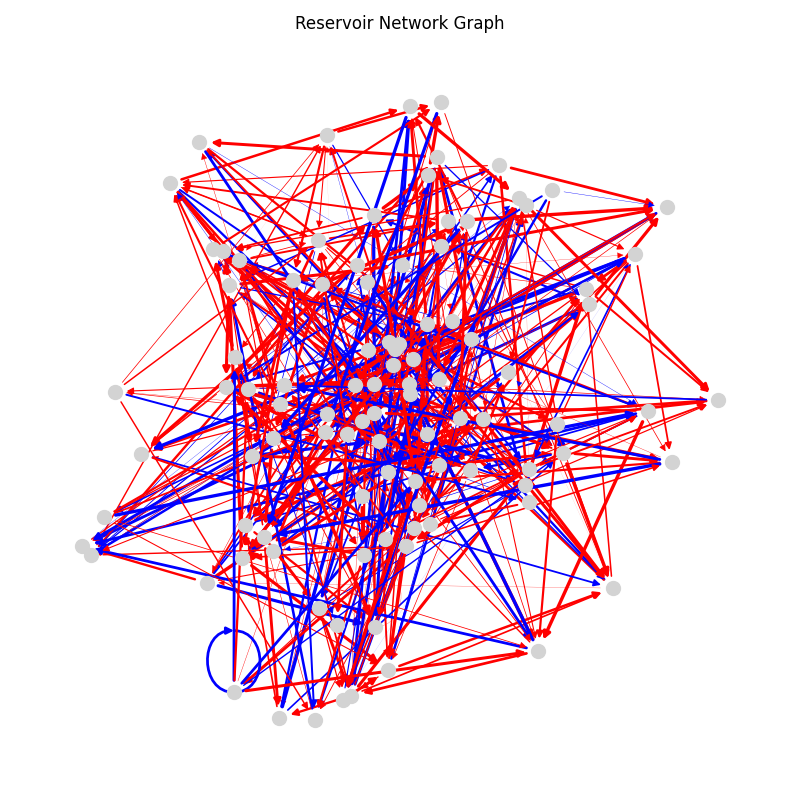
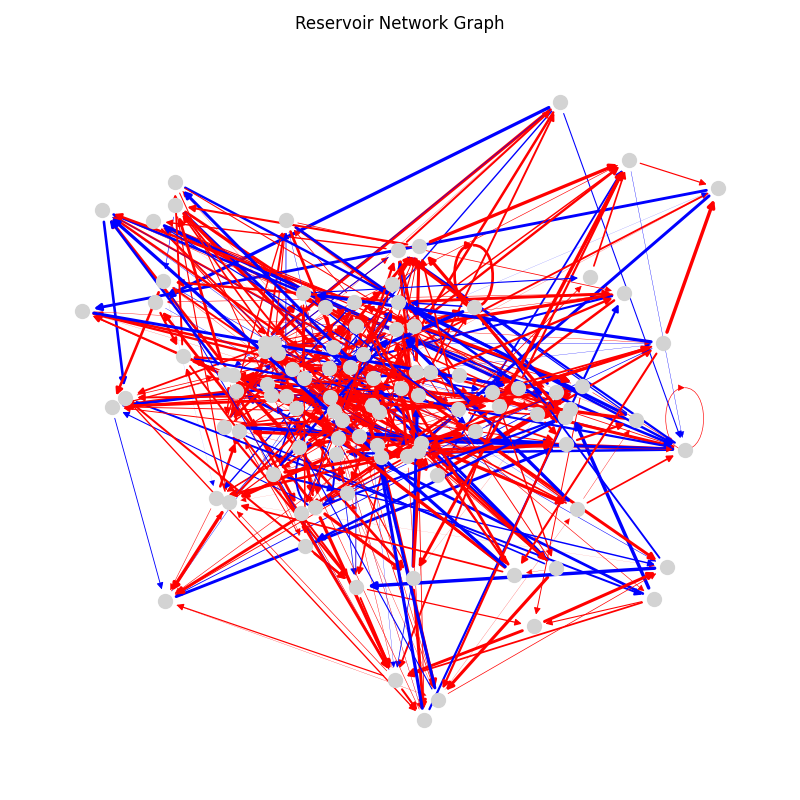
recurent networkの行列計算追加

Changed region(s): [[0.0938, 0.125, 0.9062, 0.9062], [0.8438, 0.3125, 0.875, 0.375]]

diff --git a/demo.py b/demo.py
@@ -10,14 +10,13 @@ import random
 
 if __name__ == "__main__":
 
-    #りざばーのネットワーク作る
-    #network可視化
+    #ラスタープロット
     #学習アルゴリズム追加
     #8:2で興奮と抑制混ぜる
 
     # set a PQN cell
     # you can use RSexci, RSinhi, FS, LTS, IB, EB, PB, or Class2 mode
-    N = 100
+    N = 1000
     cell0=PQNModel(mode='RSexci', N = N)
     # set a synapse
     synapses_out = DoubleExponentialSynapse(N, dt=cell0.PARAM['dt'], td=2e-2, tr=2e-3)
@@ -33,10 +32,12 @@ if __name__ == "__main__":
     spike = np.zeros(N)
     past_spike = np.zeros(N)
     resovoir_weight = np.zeros((N, N))
+    random.seed(42) # for reproducibility
     for i in range(N):
         for j in range(N):
             p = random.random()
             if p < 0.04:  # 4%の確率で結合
+
                 resovoir_weight[i][j] = 0.5*random.random()
             elif p < 0.05:
                 resovoir_weight[i][j] = -0.5*random.random()  # 1%の確率で抑制結合
@@ -52,38 +53,41 @@ if __name__ == "__main__":
             if w != 0:
                 G.add_edge(j, i, weight=w)  # j→i（pre→post）
 
-    # --- 3. ノード配置（円形 or 自動レイアウト） ---
-    pos = nx.spring_layout(G, seed=42)  # spring_layout / circular_layout など
+    # # --- 3. ノード配置（円形 or 自動レイアウト） ---
+    # pos = nx.spring_layout(G, seed=42)  # spring_layout / circular_layout など
 
-    # --- 4. エッジ属性（色と太さ） ---
-    edges = G.edges(data=True)
-    edge_colors = ['red' if d['weight'] > 0 else 'blue' for (u, v, d) in edges]
-    edge_widths = [abs(d['weight'])*5 for (u, v, d) in edges]
+    # # --- 4. エッジ属性（色と太さ） ---
+    # edges = G.edges(data=True)
+    # edge_colors = ['red' if d['weight'] > 0 else 'blue' for (u, v, d) in edges]
+    # edge_widths = [abs(d['weight'])*5 for (u, v, d) in edges]
 
-    # --- 5. 可視化 ---
-    plt.figure(num=1, figsize=(8, 8))
-    nx.draw_networkx_nodes(G, pos, node_size=100, node_color="lightgray")
-    nx.draw_networkx_edges(G, pos, edge_color=edge_colors, width=edge_widths, arrows=True, arrowstyle='-|>')
-    plt.title("Reservoir Network Graph")
-    plt.axis('off')
-    plt.tight_layout()
-    plt.savefig("network.png")
-    plt.show(block=False)
+    # # --- 5. 可視化 ---
+    # plt.figure(num=1, figsize=(8, 8))
+    # nx.draw_networkx_nodes(G, pos, node_size=100, node_color="lightgray")
+    # nx.draw_networkx_edges(G, pos, edge_color=edge_colors, width=edge_widths, arrows=True, arrowstyle='-|>')
+    # plt.title("Reservoir Network Graph")
+    # plt.axis('off')
+    # plt.tight_layout()
+    # plt.savefig("network.png")
+    # plt.show(block=False)
 
     # set step input
-    I=np.zeros(number_of_iterations)
+    I=np.zeros((number_of_iterations, N))
     I[int(number_of_iterations/4):int(number_of_iterations/4*3)] = 0.09
+    next_input = np.zeros(N)
 
     # run simulatiion
     start = time.perf_counter()
     for i in range(number_of_iterations):
-        cell0.update(I[i])
+        I[i] += next_input
+        cell0.update(I[i])  # update cell state
         v0[i] = (cell0.get_membrane_potential())
         spike = np.where(v0[i] > 4, 1, 0)
         output[i] = synapses_out(np.where(spike-past_spike > 0, 1, 0))
         # tmp = np.where(spike-past_spike > 0, 1, 0)
         # if(tmp[1] == 1):
         #     print(f"Spike at iteration {i}, time {i * cell0.PARAM['dt']:.2f} s")
+        next_input = 0.004*np.dot(resovoir_weight, output[i])  # update input for next iteration
         past_spike = spike
     #print(output.shape)
 
@@ -106,7 +110,7 @@ if __name__ == "__main__":
     ax1.set_xlim(0, tmax)
     ax1.set_ylabel("output")
     ax1.set_xticks([])
-    ax2.plot([i*cell0.PARAM['dt'] for i in range(0, number_of_iterations)], I, color="black")
+    ax2.plot([i*cell0.PARAM['dt'] for i in range(0, number_of_iterations)], I[:,2], color="black")
     ax2.set_xlim(0, tmax)
     ax2.set_xlabel("[s]")
     ax2.set_ylabel("I")
